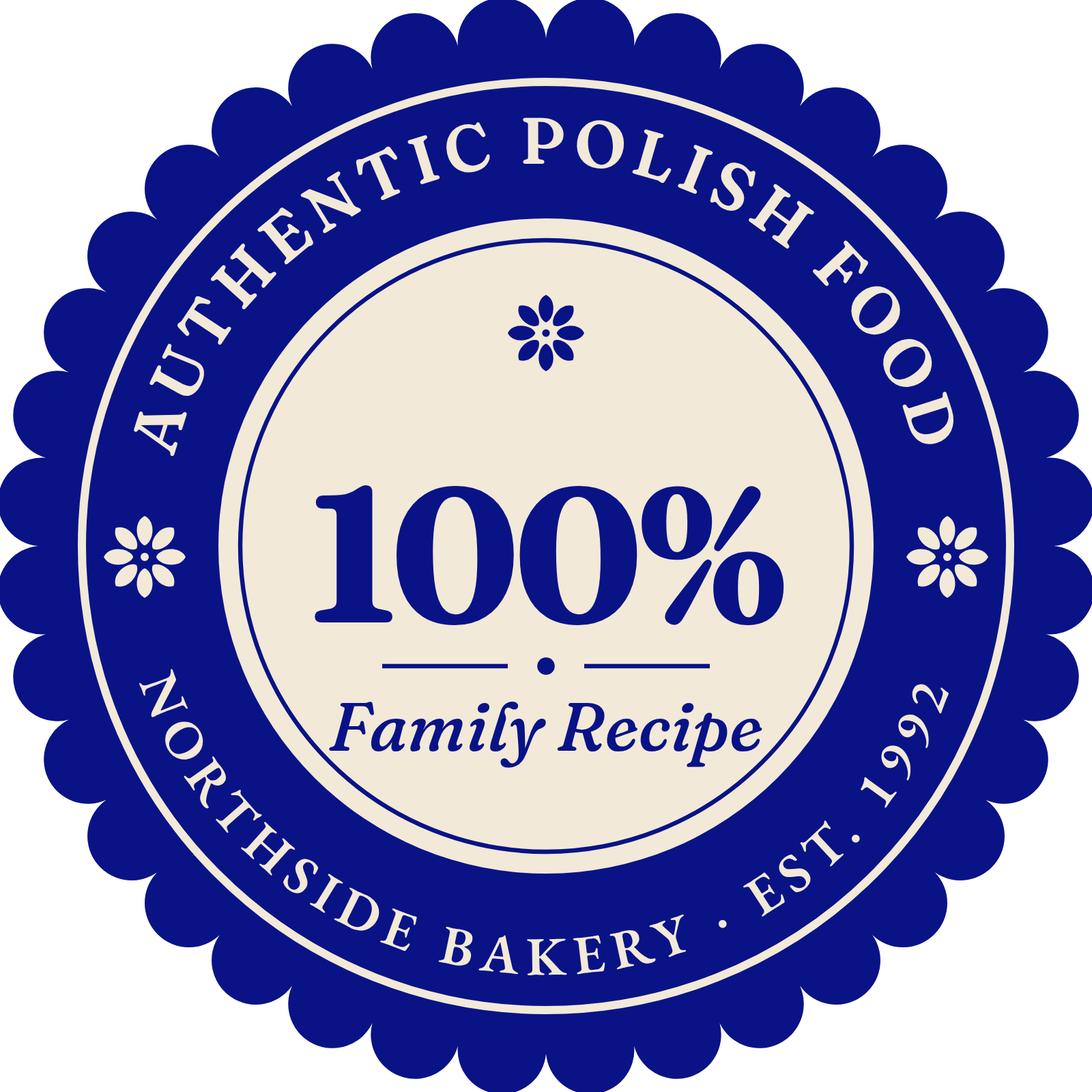
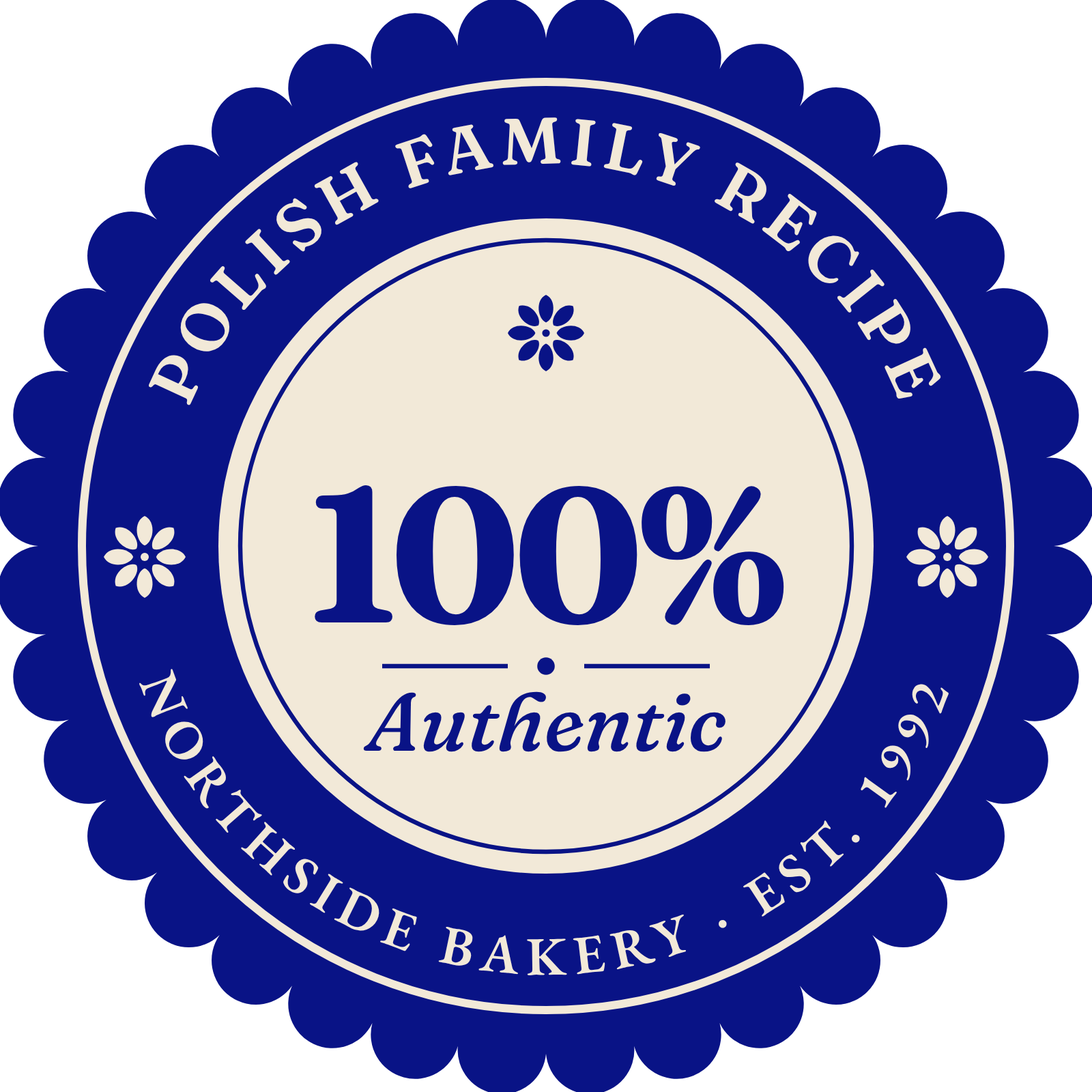
Badge: center reads '100% Authentic', ring reads 'Polish Family Recipe'
Claude-Session: https://claude.ai/code/session_017Xoc6pdiJ7631dJxWsEquF

Changed region(s): [[0.125, 0.0938, 0.875, 0.4062], [0.2812, 0.625, 0.7188, 0.7188]]

diff --git a/packaging/badge/sheet.html b/packaging/badge/sheet.html
@@ -7,14 +7,14 @@
   <circle cx="200" cy="200" r="170" fill="none" stroke="var(--bg)" stroke-width="3"/>
   <circle cx="200" cy="200" r="120" fill="var(--bg)"/>
   <circle cx="200" cy="200" r="112" fill="none" stroke="var(--ink)" stroke-width="1.6"/>
-  <text font-family="Fraunces, Georgia, serif" font-weight="600" font-size="24" letter-spacing="2.2" fill="var(--ringtext)" text-anchor="middle"><textPath href="#top" startOffset="50%">AUTHENTIC POLISH FOOD</textPath></text>
+  <text font-family="Fraunces, Georgia, serif" font-weight="600" font-size="24" letter-spacing="2.2" fill="var(--ringtext)" text-anchor="middle"><textPath href="#top" startOffset="50%">POLISH FAMILY RECIPE</textPath></text>
   <text font-family="EB Garamond, Georgia, serif" font-weight="600" font-size="20" letter-spacing="3.4" fill="var(--ringtext)" text-anchor="middle"><textPath href="#bot" startOffset="50%">NORTHSIDE BAKERY · EST. 1992</textPath></text>
   <g style="--ink:var(--ringtext);--bg:var(--ring)"><path d="M57.2 204.0C58.3 200.9 65.8 199.5 68.0 204.0C65.8 208.5 58.3 207.1 57.2 204.0Z" fill="var(--ink)"/><path d="M56.0 207.0C58.9 205.5 65.2 209.9 63.6 214.6C58.9 216.2 54.5 209.9 56.0 207.0Z" fill="var(--ink)"/><path d="M53.0 208.2C56.1 209.3 57.5 216.8 53.0 219.0C48.5 216.8 49.9 209.3 53.0 208.2Z" fill="var(--ink)"/><path d="M50.0 207.0C51.5 209.9 47.1 216.2 42.4 214.6C40.8 209.9 47.1 205.5 50.0 207.0Z" fill="var(--ink)"/><path d="M48.8 204.0C47.7 207.1 40.2 208.5 38.0 204.0C40.2 199.5 47.7 200.9 48.8 204.0Z" fill="var(--ink)"/><path d="M50.0 201.0C47.1 202.5 40.8 198.1 42.4 193.4C47.1 191.8 51.5 198.1 50.0 201.0Z" fill="var(--ink)"/><path d="M53.0 199.8C49.9 198.7 48.5 191.2 53.0 189.0C57.5 191.2 56.1 198.7 53.0 199.8Z" fill="var(--ink)"/><path d="M56.0 201.0C54.5 198.1 58.9 191.8 63.6 193.4C65.2 198.1 58.9 202.5 56.0 201.0Z" fill="var(--ink)"/><circle cx="53" cy="204" r="3.0" fill="var(--bg)"/><circle cx="53" cy="204" r="1.5" fill="var(--ink)"/><path d="M351.2 204.0C352.3 200.9 359.8 199.5 362.0 204.0C359.8 208.5 352.3 207.1 351.2 204.0Z" fill="var(--ink)"/><path d="M350.0 207.0C352.9 205.5 359.2 209.9 357.6 214.6C352.9 216.2 348.5 209.9 350.0 207.0Z" fill="var(--ink)"/><path d="M347.0 208.2C350.1 209.3 351.5 216.8 347.0 219.0C342.5 216.8 343.9 209.3 347.0 208.2Z" fill="var(--ink)"/><path d="M344.0 207.0C345.5 209.9 341.1 216.2 336.4 214.6C334.8 209.9 341.1 205.5 344.0 207.0Z" fill="var(--ink)"/><path d="M342.8 204.0C341.7 207.1 334.2 208.5 332.0 204.0C334.2 199.5 341.7 200.9 342.8 204.0Z" fill="var(--ink)"/><path d="M344.0 201.0C341.1 202.5 334.8 198.1 336.4 193.4C341.1 191.8 345.5 198.1 344.0 201.0Z" fill="var(--ink)"/><path d="M347.0 199.8C343.9 198.7 342.5 191.2 347.0 189.0C351.5 191.2 350.1 198.7 347.0 199.8Z" fill="var(--ink)"/><path d="M350.0 201.0C348.5 198.1 352.9 191.8 357.6 193.4C359.2 198.1 352.9 202.5 350.0 201.0Z" fill="var(--ink)"/><circle cx="347" cy="204" r="3.0" fill="var(--bg)"/><circle cx="347" cy="204" r="1.5" fill="var(--ink)"/></g>
   <g><path d="M203.9 122.0C204.9 119.1 212.0 117.8 214.0 122.0C212.0 126.2 204.9 124.9 203.9 122.0Z" fill="var(--ink)"/><path d="M202.8 124.8C205.5 123.4 211.4 127.5 209.9 131.9C205.5 133.4 201.4 127.5 202.8 124.8Z" fill="var(--ink)"/><path d="M200.0 125.9C202.9 126.9 204.2 134.0 200.0 136.0C195.8 134.0 197.1 126.9 200.0 125.9Z" fill="var(--ink)"/><path d="M197.2 124.8C198.6 127.5 194.5 133.4 190.1 131.9C188.6 127.5 194.5 123.4 197.2 124.8Z" fill="var(--ink)"/><path d="M196.1 122.0C195.1 124.9 188.0 126.2 186.0 122.0C188.0 117.8 195.1 119.1 196.1 122.0Z" fill="var(--ink)"/><path d="M197.2 119.2C194.5 120.6 188.6 116.5 190.1 112.1C194.5 110.6 198.6 116.5 197.2 119.2Z" fill="var(--ink)"/><path d="M200.0 118.1C197.1 117.1 195.8 110.0 200.0 108.0C204.2 110.0 202.9 117.1 200.0 118.1Z" fill="var(--ink)"/><path d="M202.8 119.2C201.4 116.5 205.5 110.6 209.9 112.1C211.4 116.5 205.5 120.6 202.8 119.2Z" fill="var(--ink)"/><circle cx="200" cy="122" r="2.8" fill="var(--bg)"/><circle cx="200" cy="122" r="1.4" fill="var(--ink)"/></g>
   <text x="200" y="228" text-anchor="middle" font-family="Fraunces, Georgia, serif" font-weight="700" font-size="70" letter-spacing="-2" fill="var(--ink)">100%</text>
   <path d="M140 244H186M214 244H260" stroke="var(--ink)" stroke-width="1.6"/>
   <circle cx="200" cy="244" r="3.2" fill="var(--ink)"/>
-  <text x="200" y="275" text-anchor="middle" font-family="Fraunces, Georgia, serif" font-style="italic" font-weight="500" font-size="25" fill="var(--ink)">Family Recipe</text>
+  <text x="200" y="275" text-anchor="middle" font-family="Fraunces, Georgia, serif" font-style="italic" font-weight="500" font-size="30" fill="var(--ink)">Authentic</text>
 </svg></div><div class="b" style="--ring:#091386;--ringtext:#E8CC8B;--bg:#091386;--ink:#E8CC8B"><svg viewBox="0 0 400 400" width="100%" height="100%">
   <defs>
     <path id="top" d="M60 200A140 140 0 0 1 340 200"/>
@@ -24,14 +24,14 @@
   <circle cx="200" cy="200" r="170" fill="none" stroke="var(--bg)" stroke-width="3"/>
   <circle cx="200" cy="200" r="120" fill="var(--bg)"/>
   <circle cx="200" cy="200" r="112" fill="none" stroke="var(--ink)" stroke-width="1.6"/>
-  <text font-family="Fraunces, Georgia, serif" font-weight="600" font-size="24" letter-spacing="2.2" fill="var(--ringtext)" text-anchor="middle"><textPath href="#top" startOffset="50%">AUTHENTIC POLISH FOOD</textPath></text>
+  <text font-family="Fraunces, Georgia, serif" font-weight="600" font-size="24" letter-spacing="2.2" fill="var(--ringtext)" text-anchor="middle"><textPath href="#top" startOffset="50%">POLISH FAMILY RECIPE</textPath></text>
   <text font-family="EB Garamond, Georgia, serif" font-weight="600" font-size="20" letter-spacing="3.4" fill="var(--ringtext)" text-anchor="middle"><textPath href="#bot" startOffset="50%">NORTHSIDE BAKERY · EST. 1992</textPath></text>
   <g style="--ink:var(--ringtext);--bg:var(--ring)"><path d="M57.2 204.0C58.3 200.9 65.8 199.5 68.0 204.0C65.8 208.5 58.3 207.1 57.2 204.0Z" fill="var(--ink)"/><path d="M56.0 207.0C58.9 205.5 65.2 209.9 63.6 214.6C58.9 216.2 54.5 209.9 56.0 207.0Z" fill="var(--ink)"/><path d="M53.0 208.2C56.1 209.3 57.5 216.8 53.0 219.0C48.5 216.8 49.9 209.3 53.0 208.2Z" fill="var(--ink)"/><path d="M50.0 207.0C51.5 209.9 47.1 216.2 42.4 214.6C40.8 209.9 47.1 205.5 50.0 207.0Z" fill="var(--ink)"/><path d="M48.8 204.0C47.7 207.1 40.2 208.5 38.0 204.0C40.2 199.5 47.7 200.9 48.8 204.0Z" fill="var(--ink)"/><path d="M50.0 201.0C47.1 202.5 40.8 198.1 42.4 193.4C47.1 191.8 51.5 198.1 50.0 201.0Z" fill="var(--ink)"/><path d="M53.0 199.8C49.9 198.7 48.5 191.2 53.0 189.0C57.5 191.2 56.1 198.7 53.0 199.8Z" fill="var(--ink)"/><path d="M56.0 201.0C54.5 198.1 58.9 191.8 63.6 193.4C65.2 198.1 58.9 202.5 56.0 201.0Z" fill="var(--ink)"/><circle cx="53" cy="204" r="3.0" fill="var(--bg)"/><circle cx="53" cy="204" r="1.5" fill="var(--ink)"/><path d="M351.2 204.0C352.3 200.9 359.8 199.5 362.0 204.0C359.8 208.5 352.3 207.1 351.2 204.0Z" fill="var(--ink)"/><path d="M350.0 207.0C352.9 205.5 359.2 209.9 357.6 214.6C352.9 216.2 348.5 209.9 350.0 207.0Z" fill="var(--ink)"/><path d="M347.0 208.2C350.1 209.3 351.5 216.8 347.0 219.0C342.5 216.8 343.9 209.3 347.0 208.2Z" fill="var(--ink)"/><path d="M344.0 207.0C345.5 209.9 341.1 216.2 336.4 214.6C334.8 209.9 341.1 205.5 344.0 207.0Z" fill="var(--ink)"/><path d="M342.8 204.0C341.7 207.1 334.2 208.5 332.0 204.0C334.2 199.5 341.7 200.9 342.8 204.0Z" fill="var(--ink)"/><path d="M344.0 201.0C341.1 202.5 334.8 198.1 336.4 193.4C341.1 191.8 345.5 198.1 344.0 201.0Z" fill="var(--ink)"/><path d="M347.0 199.8C343.9 198.7 342.5 191.2 347.0 189.0C351.5 191.2 350.1 198.7 347.0 199.8Z" fill="var(--ink)"/><path d="M350.0 201.0C348.5 198.1 352.9 191.8 357.6 193.4C359.2 198.1 352.9 202.5 350.0 201.0Z" fill="var(--ink)"/><circle cx="347" cy="204" r="3.0" fill="var(--bg)"/><circle cx="347" cy="204" r="1.5" fill="var(--ink)"/></g>
   <g><path d="M203.9 122.0C204.9 119.1 212.0 117.8 214.0 122.0C212.0 126.2 204.9 124.9 203.9 122.0Z" fill="var(--ink)"/><path d="M202.8 124.8C205.5 123.4 211.4 127.5 209.9 131.9C205.5 133.4 201.4 127.5 202.8 124.8Z" fill="var(--ink)"/><path d="M200.0 125.9C202.9 126.9 204.2 134.0 200.0 136.0C195.8 134.0 197.1 126.9 200.0 125.9Z" fill="var(--ink)"/><path d="M197.2 124.8C198.6 127.5 194.5 133.4 190.1 131.9C188.6 127.5 194.5 123.4 197.2 124.8Z" fill="var(--ink)"/><path d="M196.1 122.0C195.1 124.9 188.0 126.2 186.0 122.0C188.0 117.8 195.1 119.1 196.1 122.0Z" fill="var(--ink)"/><path d="M197.2 119.2C194.5 120.6 188.6 116.5 190.1 112.1C194.5 110.6 198.6 116.5 197.2 119.2Z" fill="var(--ink)"/><path d="M200.0 118.1C197.1 117.1 195.8 110.0 200.0 108.0C204.2 110.0 202.9 117.1 200.0 118.1Z" fill="var(--ink)"/><path d="M202.8 119.2C201.4 116.5 205.5 110.6 209.9 112.1C211.4 116.5 205.5 120.6 202.8 119.2Z" fill="var(--ink)"/><circle cx="200" cy="122" r="2.8" fill="var(--bg)"/><circle cx="200" cy="122" r="1.4" fill="var(--ink)"/></g>
   <text x="200" y="228" text-anchor="middle" font-family="Fraunces, Georgia, serif" font-weight="700" font-size="70" letter-spacing="-2" fill="var(--ink)">100%</text>
   <path d="M140 244H186M214 244H260" stroke="var(--ink)" stroke-width="1.6"/>
   <circle cx="200" cy="244" r="3.2" fill="var(--ink)"/>
-  <text x="200" y="275" text-anchor="middle" font-family="Fraunces, Georgia, serif" font-style="italic" font-weight="500" font-size="25" fill="var(--ink)">Family Recipe</text>
+  <text x="200" y="275" text-anchor="middle" font-family="Fraunces, Georgia, serif" font-style="italic" font-weight="500" font-size="30" fill="var(--ink)">Authentic</text>
 </svg></div><div class="b" style="--ring:#E8CC8B;--ringtext:#091386;--bg:#091386;--ink:#E8CC8B"><svg viewBox="0 0 400 400" width="100%" height="100%">
   <defs>
     <path id="top" d="M60 200A140 140 0 0 1 340 200"/>
@@ -41,12 +41,12 @@
   <circle cx="200" cy="200" r="170" fill="none" stroke="var(--bg)" stroke-width="3"/>
   <circle cx="200" cy="200" r="120" fill="var(--bg)"/>
   <circle cx="200" cy="200" r="112" fill="none" stroke="var(--ink)" stroke-width="1.6"/>
-  <text font-family="Fraunces, Georgia, serif" font-weight="600" font-size="24" letter-spacing="2.2" fill="var(--ringtext)" text-anchor="middle"><textPath href="#top" startOffset="50%">AUTHENTIC POLISH FOOD</textPath></text>
+  <text font-family="Fraunces, Georgia, serif" font-weight="600" font-size="24" letter-spacing="2.2" fill="var(--ringtext)" text-anchor="middle"><textPath href="#top" startOffset="50%">POLISH FAMILY RECIPE</textPath></text>
   <text font-family="EB Garamond, Georgia, serif" font-weight="600" font-size="20" letter-spacing="3.4" fill="var(--ringtext)" text-anchor="middle"><textPath href="#bot" startOffset="50%">NORTHSIDE BAKERY · EST. 1992</textPath></text>
   <g style="--ink:var(--ringtext);--bg:var(--ring)"><path d="M57.2 204.0C58.3 200.9 65.8 199.5 68.0 204.0C65.8 208.5 58.3 207.1 57.2 204.0Z" fill="var(--ink)"/><path d="M56.0 207.0C58.9 205.5 65.2 209.9 63.6 214.6C58.9 216.2 54.5 209.9 56.0 207.0Z" fill="var(--ink)"/><path d="M53.0 208.2C56.1 209.3 57.5 216.8 53.0 219.0C48.5 216.8 49.9 209.3 53.0 208.2Z" fill="var(--ink)"/><path d="M50.0 207.0C51.5 209.9 47.1 216.2 42.4 214.6C40.8 209.9 47.1 205.5 50.0 207.0Z" fill="var(--ink)"/><path d="M48.8 204.0C47.7 207.1 40.2 208.5 38.0 204.0C40.2 199.5 47.7 200.9 48.8 204.0Z" fill="var(--ink)"/><path d="M50.0 201.0C47.1 202.5 40.8 198.1 42.4 193.4C47.1 191.8 51.5 198.1 50.0 201.0Z" fill="var(--ink)"/><path d="M53.0 199.8C49.9 198.7 48.5 191.2 53.0 189.0C57.5 191.2 56.1 198.7 53.0 199.8Z" fill="var(--ink)"/><path d="M56.0 201.0C54.5 198.1 58.9 191.8 63.6 193.4C65.2 198.1 58.9 202.5 56.0 201.0Z" fill="var(--ink)"/><circle cx="53" cy="204" r="3.0" fill="var(--bg)"/><circle cx="53" cy="204" r="1.5" fill="var(--ink)"/><path d="M351.2 204.0C352.3 200.9 359.8 199.5 362.0 204.0C359.8 208.5 352.3 207.1 351.2 204.0Z" fill="var(--ink)"/><path d="M350.0 207.0C352.9 205.5 359.2 209.9 357.6 214.6C352.9 216.2 348.5 209.9 350.0 207.0Z" fill="var(--ink)"/><path d="M347.0 208.2C350.1 209.3 351.5 216.8 347.0 219.0C342.5 216.8 343.9 209.3 347.0 208.2Z" fill="var(--ink)"/><path d="M344.0 207.0C345.5 209.9 341.1 216.2 336.4 214.6C334.8 209.9 341.1 205.5 344.0 207.0Z" fill="var(--ink)"/><path d="M342.8 204.0C341.7 207.1 334.2 208.5 332.0 204.0C334.2 199.5 341.7 200.9 342.8 204.0Z" fill="var(--ink)"/><path d="M344.0 201.0C341.1 202.5 334.8 198.1 336.4 193.4C341.1 191.8 345.5 198.1 344.0 201.0Z" fill="var(--ink)"/><path d="M347.0 199.8C343.9 198.7 342.5 191.2 347.0 189.0C351.5 191.2 350.1 198.7 347.0 199.8Z" fill="var(--ink)"/><path d="M350.0 201.0C348.5 198.1 352.9 191.8 357.6 193.4C359.2 198.1 352.9 202.5 350.0 201.0Z" fill="var(--ink)"/><circle cx="347" cy="204" r="3.0" fill="var(--bg)"/><circle cx="347" cy="204" r="1.5" fill="var(--ink)"/></g>
   <g><path d="M203.9 122.0C204.9 119.1 212.0 117.8 214.0 122.0C212.0 126.2 204.9 124.9 203.9 122.0Z" fill="var(--ink)"/><path d="M202.8 124.8C205.5 123.4 211.4 127.5 209.9 131.9C205.5 133.4 201.4 127.5 202.8 124.8Z" fill="var(--ink)"/><path d="M200.0 125.9C202.9 126.9 204.2 134.0 200.0 136.0C195.8 134.0 197.1 126.9 200.0 125.9Z" fill="var(--ink)"/><path d="M197.2 124.8C198.6 127.5 194.5 133.4 190.1 131.9C188.6 127.5 194.5 123.4 197.2 124.8Z" fill="var(--ink)"/><path d="M196.1 122.0C195.1 124.9 188.0 126.2 186.0 122.0C188.0 117.8 195.1 119.1 196.1 122.0Z" fill="var(--ink)"/><path d="M197.2 119.2C194.5 120.6 188.6 116.5 190.1 112.1C194.5 110.6 198.6 116.5 197.2 119.2Z" fill="var(--ink)"/><path d="M200.0 118.1C197.1 117.1 195.8 110.0 200.0 108.0C204.2 110.0 202.9 117.1 200.0 118.1Z" fill="var(--ink)"/><path d="M202.8 119.2C201.4 116.5 205.5 110.6 209.9 112.1C211.4 116.5 205.5 120.6 202.8 119.2Z" fill="var(--ink)"/><circle cx="200" cy="122" r="2.8" fill="var(--bg)"/><circle cx="200" cy="122" r="1.4" fill="var(--ink)"/></g>
   <text x="200" y="228" text-anchor="middle" font-family="Fraunces, Georgia, serif" font-weight="700" font-size="70" letter-spacing="-2" fill="var(--ink)">100%</text>
   <path d="M140 244H186M214 244H260" stroke="var(--ink)" stroke-width="1.6"/>
   <circle cx="200" cy="244" r="3.2" fill="var(--ink)"/>
-  <text x="200" y="275" text-anchor="middle" font-family="Fraunces, Georgia, serif" font-style="italic" font-weight="500" font-size="25" fill="var(--ink)">Family Recipe</text>
+  <text x="200" y="275" text-anchor="middle" font-family="Fraunces, Georgia, serif" font-style="italic" font-weight="500" font-size="30" fill="var(--ink)">Authentic</text>
 </svg></div></body></html>

diff --git a/packaging/badge/badge-cream-navy.html b/packaging/badge/badge-cream-navy.html
@@ -7,12 +7,12 @@
   <circle cx="200" cy="200" r="170" fill="none" stroke="var(--bg)" stroke-width="3"/>
   <circle cx="200" cy="200" r="120" fill="var(--bg)"/>
   <circle cx="200" cy="200" r="112" fill="none" stroke="var(--ink)" stroke-width="1.6"/>
-  <text font-family="Fraunces, Georgia, serif" font-weight="600" font-size="24" letter-spacing="2.2" fill="var(--ringtext)" text-anchor="middle"><textPath href="#top" startOffset="50%">AUTHENTIC POLISH FOOD</textPath></text>
+  <text font-family="Fraunces, Georgia, serif" font-weight="600" font-size="24" letter-spacing="2.2" fill="var(--ringtext)" text-anchor="middle"><textPath href="#top" startOffset="50%">POLISH FAMILY RECIPE</textPath></text>
   <text font-family="EB Garamond, Georgia, serif" font-weight="600" font-size="20" letter-spacing="3.4" fill="var(--ringtext)" text-anchor="middle"><textPath href="#bot" startOffset="50%">NORTHSIDE BAKERY · EST. 1992</textPath></text>
   <g style="--ink:var(--ringtext);--bg:var(--ring)"><path d="M57.2 204.0C58.3 200.9 65.8 199.5 68.0 204.0C65.8 208.5 58.3 207.1 57.2 204.0Z" fill="var(--ink)"/><path d="M56.0 207.0C58.9 205.5 65.2 209.9 63.6 214.6C58.9 216.2 54.5 209.9 56.0 207.0Z" fill="var(--ink)"/><path d="M53.0 208.2C56.1 209.3 57.5 216.8 53.0 219.0C48.5 216.8 49.9 209.3 53.0 208.2Z" fill="var(--ink)"/><path d="M50.0 207.0C51.5 209.9 47.1 216.2 42.4 214.6C40.8 209.9 47.1 205.5 50.0 207.0Z" fill="var(--ink)"/><path d="M48.8 204.0C47.7 207.1 40.2 208.5 38.0 204.0C40.2 199.5 47.7 200.9 48.8 204.0Z" fill="var(--ink)"/><path d="M50.0 201.0C47.1 202.5 40.8 198.1 42.4 193.4C47.1 191.8 51.5 198.1 50.0 201.0Z" fill="var(--ink)"/><path d="M53.0 199.8C49.9 198.7 48.5 191.2 53.0 189.0C57.5 191.2 56.1 198.7 53.0 199.8Z" fill="var(--ink)"/><path d="M56.0 201.0C54.5 198.1 58.9 191.8 63.6 193.4C65.2 198.1 58.9 202.5 56.0 201.0Z" fill="var(--ink)"/><circle cx="53" cy="204" r="3.0" fill="var(--bg)"/><circle cx="53" cy="204" r="1.5" fill="var(--ink)"/><path d="M351.2 204.0C352.3 200.9 359.8 199.5 362.0 204.0C359.8 208.5 352.3 207.1 351.2 204.0Z" fill="var(--ink)"/><path d="M350.0 207.0C352.9 205.5 359.2 209.9 357.6 214.6C352.9 216.2 348.5 209.9 350.0 207.0Z" fill="var(--ink)"/><path d="M347.0 208.2C350.1 209.3 351.5 216.8 347.0 219.0C342.5 216.8 343.9 209.3 347.0 208.2Z" fill="var(--ink)"/><path d="M344.0 207.0C345.5 209.9 341.1 216.2 336.4 214.6C334.8 209.9 341.1 205.5 344.0 207.0Z" fill="var(--ink)"/><path d="M342.8 204.0C341.7 207.1 334.2 208.5 332.0 204.0C334.2 199.5 341.7 200.9 342.8 204.0Z" fill="var(--ink)"/><path d="M344.0 201.0C341.1 202.5 334.8 198.1 336.4 193.4C341.1 191.8 345.5 198.1 344.0 201.0Z" fill="var(--ink)"/><path d="M347.0 199.8C343.9 198.7 342.5 191.2 347.0 189.0C351.5 191.2 350.1 198.7 347.0 199.8Z" fill="var(--ink)"/><path d="M350.0 201.0C348.5 198.1 352.9 191.8 357.6 193.4C359.2 198.1 352.9 202.5 350.0 201.0Z" fill="var(--ink)"/><circle cx="347" cy="204" r="3.0" fill="var(--bg)"/><circle cx="347" cy="204" r="1.5" fill="var(--ink)"/></g>
   <g><path d="M203.9 122.0C204.9 119.1 212.0 117.8 214.0 122.0C212.0 126.2 204.9 124.9 203.9 122.0Z" fill="var(--ink)"/><path d="M202.8 124.8C205.5 123.4 211.4 127.5 209.9 131.9C205.5 133.4 201.4 127.5 202.8 124.8Z" fill="var(--ink)"/><path d="M200.0 125.9C202.9 126.9 204.2 134.0 200.0 136.0C195.8 134.0 197.1 126.9 200.0 125.9Z" fill="var(--ink)"/><path d="M197.2 124.8C198.6 127.5 194.5 133.4 190.1 131.9C188.6 127.5 194.5 123.4 197.2 124.8Z" fill="var(--ink)"/><path d="M196.1 122.0C195.1 124.9 188.0 126.2 186.0 122.0C188.0 117.8 195.1 119.1 196.1 122.0Z" fill="var(--ink)"/><path d="M197.2 119.2C194.5 120.6 188.6 116.5 190.1 112.1C194.5 110.6 198.6 116.5 197.2 119.2Z" fill="var(--ink)"/><path d="M200.0 118.1C197.1 117.1 195.8 110.0 200.0 108.0C204.2 110.0 202.9 117.1 200.0 118.1Z" fill="var(--ink)"/><path d="M202.8 119.2C201.4 116.5 205.5 110.6 209.9 112.1C211.4 116.5 205.5 120.6 202.8 119.2Z" fill="var(--ink)"/><circle cx="200" cy="122" r="2.8" fill="var(--bg)"/><circle cx="200" cy="122" r="1.4" fill="var(--ink)"/></g>
   <text x="200" y="228" text-anchor="middle" font-family="Fraunces, Georgia, serif" font-weight="700" font-size="70" letter-spacing="-2" fill="var(--ink)">100%</text>
   <path d="M140 244H186M214 244H260" stroke="var(--ink)" stroke-width="1.6"/>
   <circle cx="200" cy="244" r="3.2" fill="var(--ink)"/>
-  <text x="200" y="275" text-anchor="middle" font-family="Fraunces, Georgia, serif" font-style="italic" font-weight="500" font-size="25" fill="var(--ink)">Family Recipe</text>
+  <text x="200" y="275" text-anchor="middle" font-family="Fraunces, Georgia, serif" font-style="italic" font-weight="500" font-size="30" fill="var(--ink)">Authentic</text>
 </svg></div></body></html>

diff --git a/packaging/badge/badge-gold-navy.html b/packaging/badge/badge-gold-navy.html
@@ -7,12 +7,12 @@
   <circle cx="200" cy="200" r="170" fill="none" stroke="var(--bg)" stroke-width="3"/>
   <circle cx="200" cy="200" r="120" fill="var(--bg)"/>
   <circle cx="200" cy="200" r="112" fill="none" stroke="var(--ink)" stroke-width="1.6"/>
-  <text font-family="Fraunces, Georgia, serif" font-weight="600" font-size="24" letter-spacing="2.2" fill="var(--ringtext)" text-anchor="middle"><textPath href="#top" startOffset="50%">AUTHENTIC POLISH FOOD</textPath></text>
+  <text font-family="Fraunces, Georgia, serif" font-weight="600" font-size="24" letter-spacing="2.2" fill="var(--ringtext)" text-anchor="middle"><textPath href="#top" startOffset="50%">POLISH FAMILY RECIPE</textPath></text>
   <text font-family="EB Garamond, Georgia, serif" font-weight="600" font-size="20" letter-spacing="3.4" fill="var(--ringtext)" text-anchor="middle"><textPath href="#bot" startOffset="50%">NORTHSIDE BAKERY · EST. 1992</textPath></text>
   <g style="--ink:var(--ringtext);--bg:var(--ring)"><path d="M57.2 204.0C58.3 200.9 65.8 199.5 68.0 204.0C65.8 208.5 58.3 207.1 57.2 204.0Z" fill="var(--ink)"/><path d="M56.0 207.0C58.9 205.5 65.2 209.9 63.6 214.6C58.9 216.2 54.5 209.9 56.0 207.0Z" fill="var(--ink)"/><path d="M53.0 208.2C56.1 209.3 57.5 216.8 53.0 219.0C48.5 216.8 49.9 209.3 53.0 208.2Z" fill="var(--ink)"/><path d="M50.0 207.0C51.5 209.9 47.1 216.2 42.4 214.6C40.8 209.9 47.1 205.5 50.0 207.0Z" fill="var(--ink)"/><path d="M48.8 204.0C47.7 207.1 40.2 208.5 38.0 204.0C40.2 199.5 47.7 200.9 48.8 204.0Z" fill="var(--ink)"/><path d="M50.0 201.0C47.1 202.5 40.8 198.1 42.4 193.4C47.1 191.8 51.5 198.1 50.0 201.0Z" fill="var(--ink)"/><path d="M53.0 199.8C49.9 198.7 48.5 191.2 53.0 189.0C57.5 191.2 56.1 198.7 53.0 199.8Z" fill="var(--ink)"/><path d="M56.0 201.0C54.5 198.1 58.9 191.8 63.6 193.4C65.2 198.1 58.9 202.5 56.0 201.0Z" fill="var(--ink)"/><circle cx="53" cy="204" r="3.0" fill="var(--bg)"/><circle cx="53" cy="204" r="1.5" fill="var(--ink)"/><path d="M351.2 204.0C352.3 200.9 359.8 199.5 362.0 204.0C359.8 208.5 352.3 207.1 351.2 204.0Z" fill="var(--ink)"/><path d="M350.0 207.0C352.9 205.5 359.2 209.9 357.6 214.6C352.9 216.2 348.5 209.9 350.0 207.0Z" fill="var(--ink)"/><path d="M347.0 208.2C350.1 209.3 351.5 216.8 347.0 219.0C342.5 216.8 343.9 209.3 347.0 208.2Z" fill="var(--ink)"/><path d="M344.0 207.0C345.5 209.9 341.1 216.2 336.4 214.6C334.8 209.9 341.1 205.5 344.0 207.0Z" fill="var(--ink)"/><path d="M342.8 204.0C341.7 207.1 334.2 208.5 332.0 204.0C334.2 199.5 341.7 200.9 342.8 204.0Z" fill="var(--ink)"/><path d="M344.0 201.0C341.1 202.5 334.8 198.1 336.4 193.4C341.1 191.8 345.5 198.1 344.0 201.0Z" fill="var(--ink)"/><path d="M347.0 199.8C343.9 198.7 342.5 191.2 347.0 189.0C351.5 191.2 350.1 198.7 347.0 199.8Z" fill="var(--ink)"/><path d="M350.0 201.0C348.5 198.1 352.9 191.8 357.6 193.4C359.2 198.1 352.9 202.5 350.0 201.0Z" fill="var(--ink)"/><circle cx="347" cy="204" r="3.0" fill="var(--bg)"/><circle cx="347" cy="204" r="1.5" fill="var(--ink)"/></g>
   <g><path d="M203.9 122.0C204.9 119.1 212.0 117.8 214.0 122.0C212.0 126.2 204.9 124.9 203.9 122.0Z" fill="var(--ink)"/><path d="M202.8 124.8C205.5 123.4 211.4 127.5 209.9 131.9C205.5 133.4 201.4 127.5 202.8 124.8Z" fill="var(--ink)"/><path d="M200.0 125.9C202.9 126.9 204.2 134.0 200.0 136.0C195.8 134.0 197.1 126.9 200.0 125.9Z" fill="var(--ink)"/><path d="M197.2 124.8C198.6 127.5 194.5 133.4 190.1 131.9C188.6 127.5 194.5 123.4 197.2 124.8Z" fill="var(--ink)"/><path d="M196.1 122.0C195.1 124.9 188.0 126.2 186.0 122.0C188.0 117.8 195.1 119.1 196.1 122.0Z" fill="var(--ink)"/><path d="M197.2 119.2C194.5 120.6 188.6 116.5 190.1 112.1C194.5 110.6 198.6 116.5 197.2 119.2Z" fill="var(--ink)"/><path d="M200.0 118.1C197.1 117.1 195.8 110.0 200.0 108.0C204.2 110.0 202.9 117.1 200.0 118.1Z" fill="var(--ink)"/><path d="M202.8 119.2C201.4 116.5 205.5 110.6 209.9 112.1C211.4 116.5 205.5 120.6 202.8 119.2Z" fill="var(--ink)"/><circle cx="200" cy="122" r="2.8" fill="var(--bg)"/><circle cx="200" cy="122" r="1.4" fill="var(--ink)"/></g>
   <text x="200" y="228" text-anchor="middle" font-family="Fraunces, Georgia, serif" font-weight="700" font-size="70" letter-spacing="-2" fill="var(--ink)">100%</text>
   <path d="M140 244H186M214 244H260" stroke="var(--ink)" stroke-width="1.6"/>
   <circle cx="200" cy="244" r="3.2" fill="var(--ink)"/>
-  <text x="200" y="275" text-anchor="middle" font-family="Fraunces, Georgia, serif" font-style="italic" font-weight="500" font-size="25" fill="var(--ink)">Family Recipe</text>
+  <text x="200" y="275" text-anchor="middle" font-family="Fraunces, Georgia, serif" font-style="italic" font-weight="500" font-size="30" fill="var(--ink)">Authentic</text>
 </svg></div></body></html>

diff --git a/packaging/badge/badge-navy-gold.html b/packaging/badge/badge-navy-gold.html
@@ -7,12 +7,12 @@
   <circle cx="200" cy="200" r="170" fill="none" stroke="var(--bg)" stroke-width="3"/>
   <circle cx="200" cy="200" r="120" fill="var(--bg)"/>
   <circle cx="200" cy="200" r="112" fill="none" stroke="var(--ink)" stroke-width="1.6"/>
-  <text font-family="Fraunces, Georgia, serif" font-weight="600" font-size="24" letter-spacing="2.2" fill="var(--ringtext)" text-anchor="middle"><textPath href="#top" startOffset="50%">AUTHENTIC POLISH FOOD</textPath></text>
+  <text font-family="Fraunces, Georgia, serif" font-weight="600" font-size="24" letter-spacing="2.2" fill="var(--ringtext)" text-anchor="middle"><textPath href="#top" startOffset="50%">POLISH FAMILY RECIPE</textPath></text>
   <text font-family="EB Garamond, Georgia, serif" font-weight="600" font-size="20" letter-spacing="3.4" fill="var(--ringtext)" text-anchor="middle"><textPath href="#bot" startOffset="50%">NORTHSIDE BAKERY · EST. 1992</textPath></text>
   <g style="--ink:var(--ringtext);--bg:var(--ring)"><path d="M57.2 204.0C58.3 200.9 65.8 199.5 68.0 204.0C65.8 208.5 58.3 207.1 57.2 204.0Z" fill="var(--ink)"/><path d="M56.0 207.0C58.9 205.5 65.2 209.9 63.6 214.6C58.9 216.2 54.5 209.9 56.0 207.0Z" fill="var(--ink)"/><path d="M53.0 208.2C56.1 209.3 57.5 216.8 53.0 219.0C48.5 216.8 49.9 209.3 53.0 208.2Z" fill="var(--ink)"/><path d="M50.0 207.0C51.5 209.9 47.1 216.2 42.4 214.6C40.8 209.9 47.1 205.5 50.0 207.0Z" fill="var(--ink)"/><path d="M48.8 204.0C47.7 207.1 40.2 208.5 38.0 204.0C40.2 199.5 47.7 200.9 48.8 204.0Z" fill="var(--ink)"/><path d="M50.0 201.0C47.1 202.5 40.8 198.1 42.4 193.4C47.1 191.8 51.5 198.1 50.0 201.0Z" fill="var(--ink)"/><path d="M53.0 199.8C49.9 198.7 48.5 191.2 53.0 189.0C57.5 191.2 56.1 198.7 53.0 199.8Z" fill="var(--ink)"/><path d="M56.0 201.0C54.5 198.1 58.9 191.8 63.6 193.4C65.2 198.1 58.9 202.5 56.0 201.0Z" fill="var(--ink)"/><circle cx="53" cy="204" r="3.0" fill="var(--bg)"/><circle cx="53" cy="204" r="1.5" fill="var(--ink)"/><path d="M351.2 204.0C352.3 200.9 359.8 199.5 362.0 204.0C359.8 208.5 352.3 207.1 351.2 204.0Z" fill="var(--ink)"/><path d="M350.0 207.0C352.9 205.5 359.2 209.9 357.6 214.6C352.9 216.2 348.5 209.9 350.0 207.0Z" fill="var(--ink)"/><path d="M347.0 208.2C350.1 209.3 351.5 216.8 347.0 219.0C342.5 216.8 343.9 209.3 347.0 208.2Z" fill="var(--ink)"/><path d="M344.0 207.0C345.5 209.9 341.1 216.2 336.4 214.6C334.8 209.9 341.1 205.5 344.0 207.0Z" fill="var(--ink)"/><path d="M342.8 204.0C341.7 207.1 334.2 208.5 332.0 204.0C334.2 199.5 341.7 200.9 342.8 204.0Z" fill="var(--ink)"/><path d="M344.0 201.0C341.1 202.5 334.8 198.1 336.4 193.4C341.1 191.8 345.5 198.1 344.0 201.0Z" fill="var(--ink)"/><path d="M347.0 199.8C343.9 198.7 342.5 191.2 347.0 189.0C351.5 191.2 350.1 198.7 347.0 199.8Z" fill="var(--ink)"/><path d="M350.0 201.0C348.5 198.1 352.9 191.8 357.6 193.4C359.2 198.1 352.9 202.5 350.0 201.0Z" fill="var(--ink)"/><circle cx="347" cy="204" r="3.0" fill="var(--bg)"/><circle cx="347" cy="204" r="1.5" fill="var(--ink)"/></g>
   <g><path d="M203.9 122.0C204.9 119.1 212.0 117.8 214.0 122.0C212.0 126.2 204.9 124.9 203.9 122.0Z" fill="var(--ink)"/><path d="M202.8 124.8C205.5 123.4 211.4 127.5 209.9 131.9C205.5 133.4 201.4 127.5 202.8 124.8Z" fill="var(--ink)"/><path d="M200.0 125.9C202.9 126.9 204.2 134.0 200.0 136.0C195.8 134.0 197.1 126.9 200.0 125.9Z" fill="var(--ink)"/><path d="M197.2 124.8C198.6 127.5 194.5 133.4 190.1 131.9C188.6 127.5 194.5 123.4 197.2 124.8Z" fill="var(--ink)"/><path d="M196.1 122.0C195.1 124.9 188.0 126.2 186.0 122.0C188.0 117.8 195.1 119.1 196.1 122.0Z" fill="var(--ink)"/><path d="M197.2 119.2C194.5 120.6 188.6 116.5 190.1 112.1C194.5 110.6 198.6 116.5 197.2 119.2Z" fill="var(--ink)"/><path d="M200.0 118.1C197.1 117.1 195.8 110.0 200.0 108.0C204.2 110.0 202.9 117.1 200.0 118.1Z" fill="var(--ink)"/><path d="M202.8 119.2C201.4 116.5 205.5 110.6 209.9 112.1C211.4 116.5 205.5 120.6 202.8 119.2Z" fill="var(--ink)"/><circle cx="200" cy="122" r="2.8" fill="var(--bg)"/><circle cx="200" cy="122" r="1.4" fill="var(--ink)"/></g>
   <text x="200" y="228" text-anchor="middle" font-family="Fraunces, Georgia, serif" font-weight="700" font-size="70" letter-spacing="-2" fill="var(--ink)">100%</text>
   <path d="M140 244H186M214 244H260" stroke="var(--ink)" stroke-width="1.6"/>
   <circle cx="200" cy="244" r="3.2" fill="var(--ink)"/>
-  <text x="200" y="275" text-anchor="middle" font-family="Fraunces, Georgia, serif" font-style="italic" font-weight="500" font-size="25" fill="var(--ink)">Family Recipe</text>
+  <text x="200" y="275" text-anchor="middle" font-family="Fraunces, Georgia, serif" font-style="italic" font-weight="500" font-size="30" fill="var(--ink)">Authentic</text>
 </svg></div></body></html>

diff --git a/packaging/badge/README.md b/packaging/badge/README.md
@@ -1,7 +1,7 @@
-# "100% Family Recipe" badge
+# "100% Authentic" badge
 
 Scalloped seal for the front of the pierogi bag, matching the Canva design's navy `#091386`, gold `#E8CC8B` and cream `#F2E9D8`.
-Ring text: "Authentic Polish Food" (top) and "Northside Bakery · Est. 1992" (bottom), with folk daisies.
+Center: "100% Authentic". Ring text: "Polish Family Recipe" (top) and "Northside Bakery · Est. 1992" (bottom), with folk daisies.
 
 - `badge-cream-navy.png`: cream center, navy ring. Best on the cream bag, overlapping the pierogi.
 - `badge-navy-gold.png`: navy with gold lettering, matching the logo.
